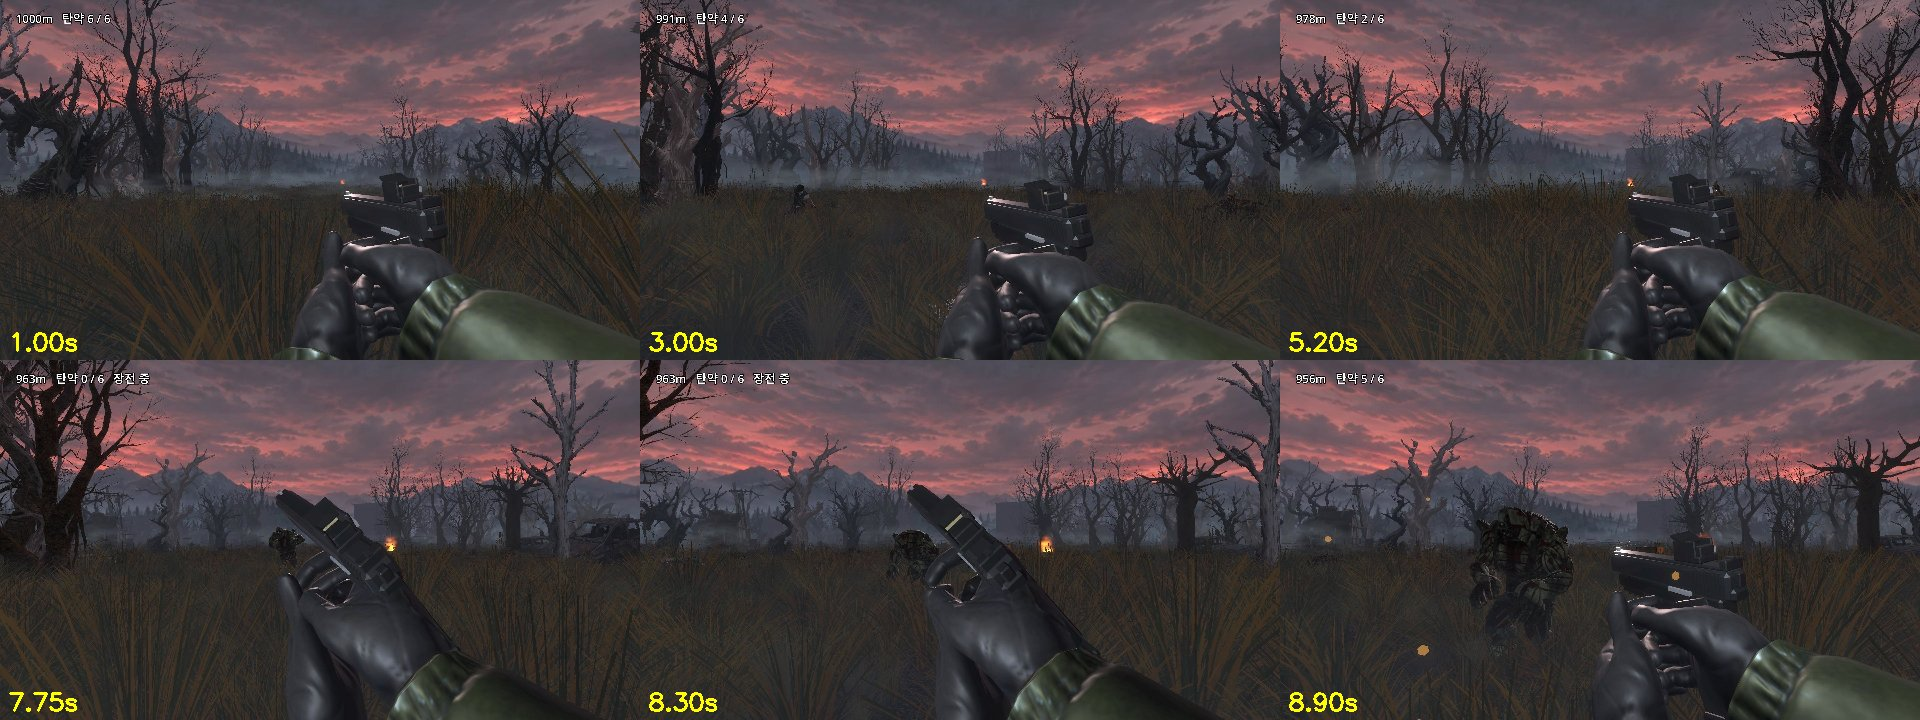
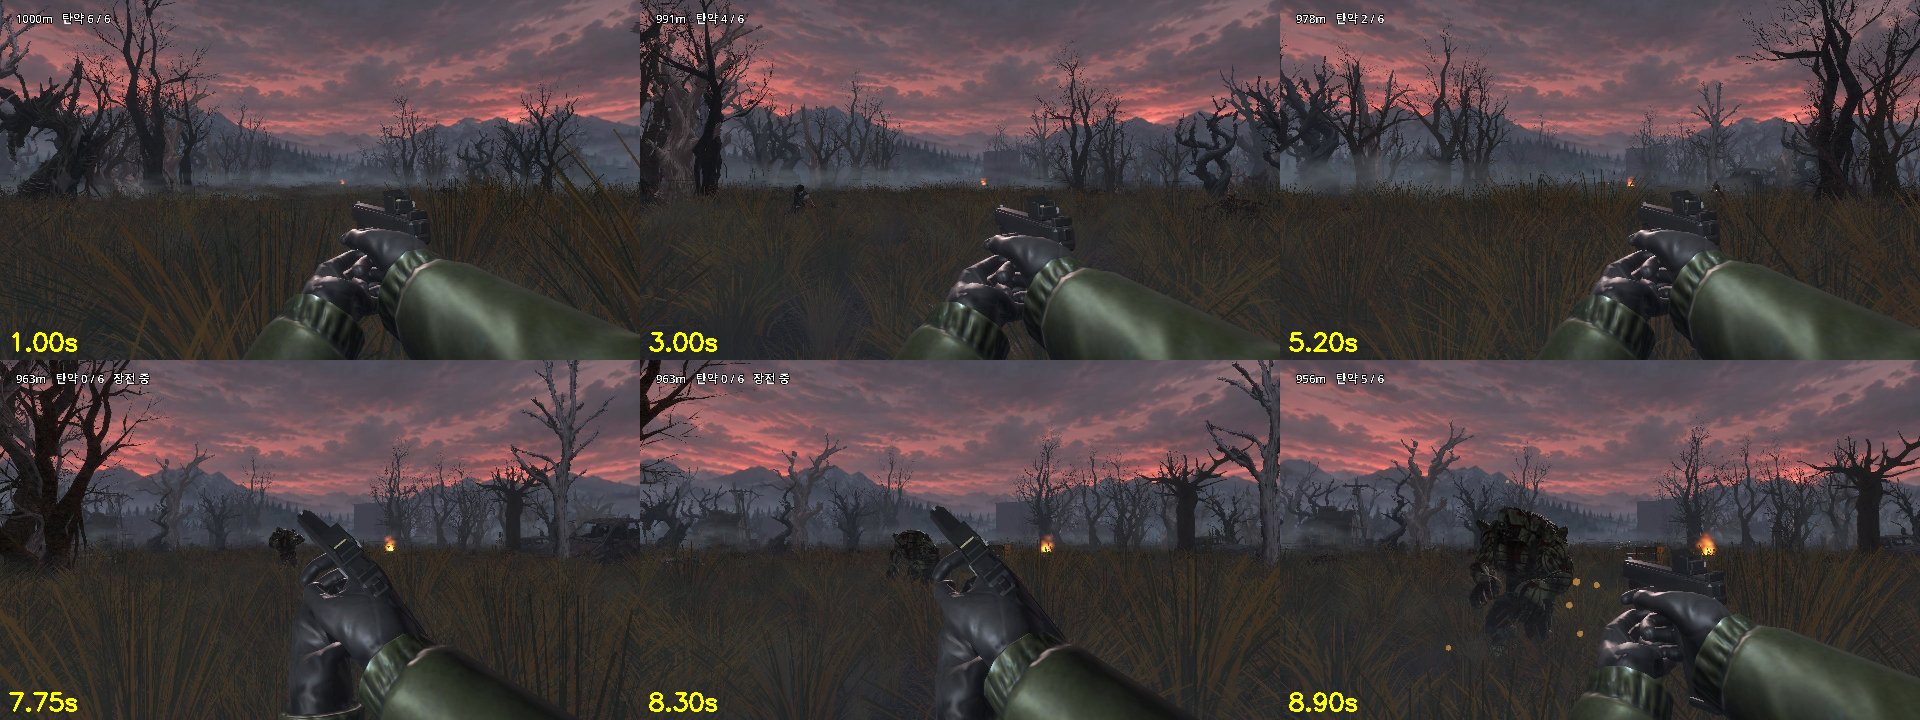
fix: 권총이 오른손 엄지·검지 사이에 끼도록 내리고, 위로 선 왼손 엄지를 눕혀 두 손 파지를 자연스럽게 — WU-29
- 권총이 오른손 등 위에 떠 있었다 → 1.5 cm 내림 (--grip 0.100,-0.015,0.000,6)
- 받쳐 쥐는 왼손 엄지가 위로 곧게 서 있었다 → 첫 마디를 55° 안쪽으로 접어 총 옆으로 (--left-thumb 0,0,-55)
- 손이 카메라에 너무 가까워 크게 보였다 → 1인칭 위치를 조금 멀리 (0.11, -0.12, -0.38), 돌림 12°·기울임 6°
- validate 통과

diff --git a/art/blender/make_pistol.py b/art/blender/make_pistol.py
@@ -22,7 +22,7 @@ import sys
 
 import bmesh
 import bpy
-from mathutils import Matrix, Vector
+from mathutils import Euler, Matrix, Vector
 
 GRIP_TILT = math.radians(-18)            # 손잡이 기울기 (아래쪽이 뒤로)
 GRIP_ROT = Matrix.Rotation(GRIP_TILT, 4, "X")
@@ -38,8 +38,10 @@ def parse_args():
     p.add_argument("--arms-fbx", default="", help="Mixamo 캐릭터 FBX — 주면 스크립트 손 대신 이 캐릭터의 팔(팔꿈치 아래)을 쓴다")
     p.add_argument("--arms-anim", default="", help="두 손으로 권총을 쥔 Mixamo 동작 FBX (예: pistol idle)")
     p.add_argument("--arms-frame", type=int, default=10, help="그 동작에서 손 모양을 가져올 프레임")
-    p.add_argument("--grip", default="0.100,0.004,0.000,6",   # 손가락이 손잡이 앞면을 감싸는 자리 (2026-09-30 맞춤)
+    p.add_argument("--grip", default="0.100,-0.015,0.000,6",  # 손가락이 손잡이 앞면을 감싸고, 손잡이가 엄지·검지 사이에 끼는 자리
                    help="오른손 손목에서 손잡이까지: 손끝 방향 m, 위 m, 오른쪽 m, 총구 좌우 각도(도)")
+    p.add_argument("--left-thumb", default="0,0,-55",
+                   help="왼손 엄지 첫 마디를 더 돌리는 각도 (x,y,z 도) — 위로 선 엄지를 총 옆면을 따라 앞으로 눕힐 때")
     p.add_argument("--max-texture", type=int, default=1024)
     p.add_argument("--sleeve", default="0.30,0.32,0.22",
                    help="소매(원래 SWAT 파란색) 를 바꿀 색 (선형 RGB). 기본 짙은 올리브. 빈 값이면 그대로")
@@ -298,6 +300,12 @@ def build_mixamo_hands(a):
     if getattr(act, "slots", None):
         arm.animation_data.action_slot = act.slots[0]
     bpy.context.scene.frame_set(a.arms_frame)
+    tx, ty, tz = [math.radians(float(v)) for v in a.left_thumb.split(",")]
+    if tx or ty or tz:                                                   # 받쳐 쥐는 왼손 엄지를 앞으로 눕힌다
+        pb = next(b for b in arm.pose.bones if b.name.endswith("LeftHandThumb1"))
+        pb.rotation_mode = "QUATERNION"
+        pb.rotation_quaternion = pb.rotation_quaternion @ Euler((tx, ty, tz)).to_quaternion()
+        bpy.context.view_layer.update()
 
     def bone(n):
         return next(b for b in arm.pose.bones if b.name.endswith(n))

diff --git a/docs/evidence/WU-29/pistol_hands.md b/docs/evidence/WU-29/pistol_hands.md
@@ -29,3 +29,4 @@
 
 ![미리보기](pistol_hands_preview.jpg)
 ![손 옆모습](pistol_hands_side.jpg)
+![1인칭 확대](pistol_hands_close.jpg)
